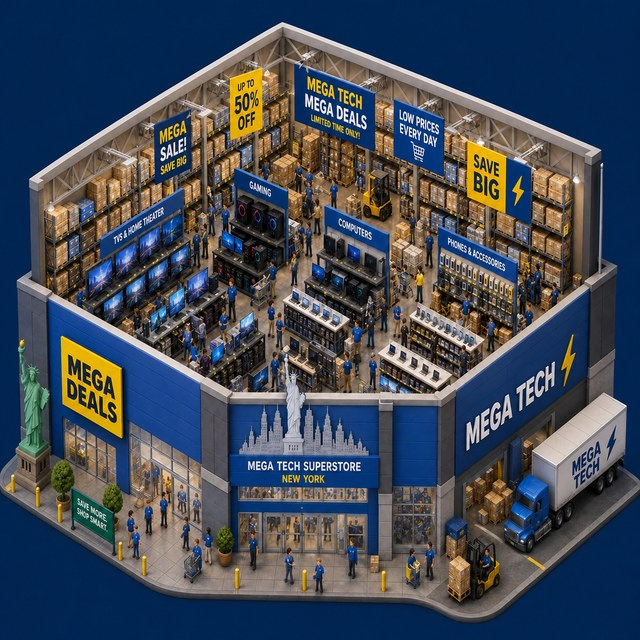
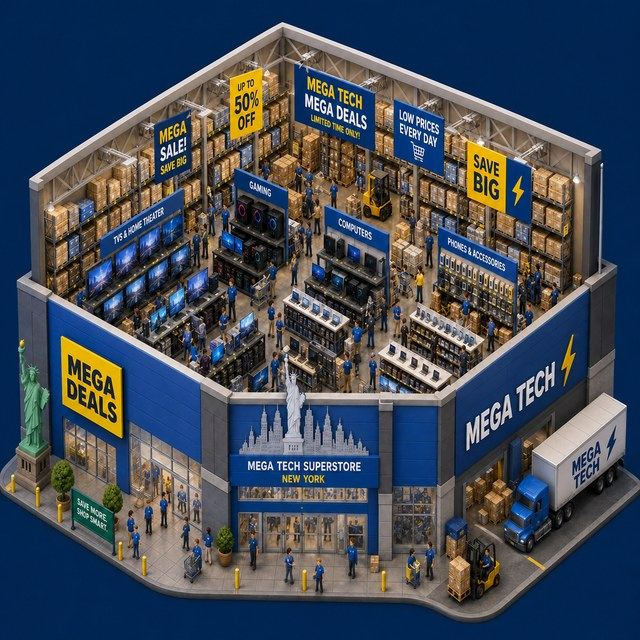
v2.49: 이미지 용량 줄이기(키아트·로드맵 썸네일·상점·직원 얼굴) — 1.17MB→0.94MB, 스프라이트 좌표는 크기 유지

diff --git a/index.html b/index.html
@@ -1,7 +1,7 @@
 <!DOCTYPE html>
 <html lang="ko">
 <head>
-<meta http-equiv="Cache-Control" content="no-cache, no-store, must-revalidate"><meta http-equiv="Pragma" content="no-cache"><meta http-equiv="Expires" content="0"><script>try{(function(){var V='1795170000';
+<meta http-equiv="Cache-Control" content="no-cache, no-store, must-revalidate"><meta http-equiv="Pragma" content="no-cache"><meta http-equiv="Expires" content="0"><script>try{(function(){var V='1795180000';
 function showUpd(t){try{ if(!document.body){ setTimeout(function(){showUpd(t);},250); return; }
 if(document.getElementById('__updBar')) return;
 var el=document.createElement('div'); el.id='__updBar'; el.setAttribute('role','button');
@@ -342,7 +342,7 @@ body.title #camctl,body.title #intp{opacity:0!important;pointer-events:none!impo
 <div id="camctl"><button id="camFull" title="전체 보기"><span>🔍</span><b>전체</b></button><button id="camBase" class="on" title="기본 시점"><span>🎯</span><b>기본</b></button><button id="intBtn" title="인테리어 꾸미기"><span>🛋</span><b>꾸미기</b></button></div>
 <div id="intp"><div class="ihd"><b>🛋 인테리어 상점</b><span id="intB"></span><button id="intX">✕</button></div><div class="itb" id="intTabs"></div><div class="il" id="intList"></div><div class="if" id="intFoot"></div></div>
 <div id="modal"><div class="box" id="mbox"></div><button id="mX">✕</button></div>
-<div id="title" style="display:none"><div class="tl"><span class="tb">MEGA TECH</span><h1>슈퍼스토어</h1><div class="ty">TYCOON</div></div><div class="sp"></div><div id="tProg"></div><button id="tStart"><i></i>영업 시작</button><button id="tLoad">📂 불러오기 <small style="font-weight:700;opacity:.8">· 저장 코드·링크</small></button><div class="tsh"><button id="tInst">📲 홈 화면에 추가</button><button id="tShare">🔗 친구에게 공유</button></div><div id="tSheet"></div><div class="tsv" id="tSave"></div><div class="tv">v2.48</div></div><div id="load"><div class="t">메가 테크 슈퍼스토어</div><div class="s" id="lds">매장 문 여는 중…</div></div>
+<div id="title" style="display:none"><div class="tl"><span class="tb">MEGA TECH</span><h1>슈퍼스토어</h1><div class="ty">TYCOON</div></div><div class="sp"></div><div id="tProg"></div><button id="tStart"><i></i>영업 시작</button><button id="tLoad">📂 불러오기 <small style="font-weight:700;opacity:.8">· 저장 코드·링크</small></button><div class="tsh"><button id="tInst">📲 홈 화면에 추가</button><button id="tShare">🔗 친구에게 공유</button></div><div id="tSheet"></div><div class="tsv" id="tSave"></div><div class="tv">v2.49</div></div><div id="load"><div class="t">메가 테크 슈퍼스토어</div><div class="s" id="lds">매장 문 여는 중…</div></div>
 <script>
 /* boot guard: shows a clear error + retry instead of an endless loading screen */
 (function(){ var done=false, failed=false;

diff --git a/tech.html b/tech.html
@@ -1,7 +1,7 @@
 <!DOCTYPE html>
 <html lang="ko">
 <head>
-<meta http-equiv="Cache-Control" content="no-cache, no-store, must-revalidate"><meta http-equiv="Pragma" content="no-cache"><meta http-equiv="Expires" content="0"><script>try{(function(){var V='1795170000';
+<meta http-equiv="Cache-Control" content="no-cache, no-store, must-revalidate"><meta http-equiv="Pragma" content="no-cache"><meta http-equiv="Expires" content="0"><script>try{(function(){var V='1795180000';
 function showUpd(t){try{ if(!document.body){ setTimeout(function(){showUpd(t);},250); return; }
 if(document.getElementById('__updBar')) return;
 var el=document.createElement('div'); el.id='__updBar'; el.setAttribute('role','button');
@@ -342,7 +342,7 @@ body.title #camctl,body.title #intp{opacity:0!important;pointer-events:none!impo
 <div id="camctl"><button id="camFull" title="전체 보기"><span>🔍</span><b>전체</b></button><button id="camBase" class="on" title="기본 시점"><span>🎯</span><b>기본</b></button><button id="intBtn" title="인테리어 꾸미기"><span>🛋</span><b>꾸미기</b></button></div>
 <div id="intp"><div class="ihd"><b>🛋 인테리어 상점</b><span id="intB"></span><button id="intX">✕</button></div><div class="itb" id="intTabs"></div><div class="il" id="intList"></div><div class="if" id="intFoot"></div></div>
 <div id="modal"><div class="box" id="mbox"></div><button id="mX">✕</button></div>
-<div id="title" style="display:none"><div class="tl"><span class="tb">MEGA TECH</span><h1>슈퍼스토어</h1><div class="ty">TYCOON</div></div><div class="sp"></div><div id="tProg"></div><button id="tStart"><i></i>영업 시작</button><button id="tLoad">📂 불러오기 <small style="font-weight:700;opacity:.8">· 저장 코드·링크</small></button><div class="tsh"><button id="tInst">📲 홈 화면에 추가</button><button id="tShare">🔗 친구에게 공유</button></div><div id="tSheet"></div><div class="tsv" id="tSave"></div><div class="tv">v2.48</div></div><div id="load"><div class="t">메가 테크 슈퍼스토어</div><div class="s" id="lds">매장 문 여는 중…</div></div>
+<div id="title" style="display:none"><div class="tl"><span class="tb">MEGA TECH</span><h1>슈퍼스토어</h1><div class="ty">TYCOON</div></div><div class="sp"></div><div id="tProg"></div><button id="tStart"><i></i>영업 시작</button><button id="tLoad">📂 불러오기 <small style="font-weight:700;opacity:.8">· 저장 코드·링크</small></button><div class="tsh"><button id="tInst">📲 홈 화면에 추가</button><button id="tShare">🔗 친구에게 공유</button></div><div id="tSheet"></div><div class="tsv" id="tSave"></div><div class="tv">v2.49</div></div><div id="load"><div class="t">메가 테크 슈퍼스토어</div><div class="s" id="lds">매장 문 여는 중…</div></div>
 <script>
 /* boot guard: shows a clear error + retry instead of an endless loading screen */
 (function(){ var done=false, failed=false;

diff --git a/tech-test.html b/tech-test.html
@@ -2,7 +2,7 @@
 <html lang="ko">
 <head>
 <meta http-equiv="Cache-Control" content="no-cache, no-store, must-revalidate"><meta http-equiv="Pragma" content="no-cache"><meta http-equiv="Expires" content="0">
-<script>try{(function(){var V='1795170000';
+<script>try{(function(){var V='1795180000';
 function showUpd(t){try{ if(!document.body){ setTimeout(function(){showUpd(t);},250); return; }
 if(document.getElementById('__updBar')) return;
 var el=document.createElement('div'); el.id='__updBar'; el.setAttribute('role','button');
@@ -373,7 +373,7 @@ body.title #camctl,body.title #intp{opacity:0!important;pointer-events:none!impo
 <div id="camctl"><button id="camFull" title="전체 보기"><span>🔍</span><b>전체</b></button><button id="camBase" class="on" title="기본 시점"><span>🎯</span><b>기본</b></button><button id="intBtn" title="인테리어 꾸미기"><span>🛋</span><b>꾸미기</b></button></div>
 <div id="intp"><div class="ihd"><b>🛋 인테리어 상점</b><span id="intB"></span><button id="intX">✕</button></div><div class="itb" id="intTabs"></div><div class="il" id="intList"></div><div class="if" id="intFoot"></div></div>
 <div id="modal"><div class="box" id="mbox"></div><button id="mX">✕</button></div>
-<div id="title" style="display:none"><div class="tl"><span class="tb">MEGA TECH</span><h1>슈퍼스토어</h1><div class="ty">TYCOON</div></div><div class="sp"></div><div id="tProg"></div><button id="tStart"><i></i>영업 시작</button><button id="tLoad">📂 불러오기 <small style="font-weight:700;opacity:.8">· 저장 코드·링크</small></button><div class="tsh"><button id="tInst">📲 홈 화면에 추가</button><button id="tShare">🔗 친구에게 공유</button></div><div id="tSheet"></div><div class="tsv" id="tSave"></div><div class="tv">v2.48</div></div><div id="load"><div class="t">메가 테크 슈퍼스토어</div><div class="s" id="lds">매장 문 여는 중…</div></div>
+<div id="title" style="display:none"><div class="tl"><span class="tb">MEGA TECH</span><h1>슈퍼스토어</h1><div class="ty">TYCOON</div></div><div class="sp"></div><div id="tProg"></div><button id="tStart"><i></i>영업 시작</button><button id="tLoad">📂 불러오기 <small style="font-weight:700;opacity:.8">· 저장 코드·링크</small></button><div class="tsh"><button id="tInst">📲 홈 화면에 추가</button><button id="tShare">🔗 친구에게 공유</button></div><div id="tSheet"></div><div class="tsv" id="tSave"></div><div class="tv">v2.49</div></div><div id="load"><div class="t">메가 테크 슈퍼스토어</div><div class="s" id="lds">매장 문 여는 중…</div></div>
 
 <div id="aip"><div id="aih"><b>🤖 AI 조작</b><span id="aistat">2D</span><button id="aitog" title="접기/펼치기">–</button></div>
 <div id="aib">

diff --git a/_t2d/part_head.html b/_t2d/part_head.html
@@ -2,7 +2,7 @@
 <html lang="ko">
 <head>
 <meta http-equiv="Cache-Control" content="no-cache, no-store, must-revalidate"><meta http-equiv="Pragma" content="no-cache"><meta http-equiv="Expires" content="0">
-<script>try{(function(){var V='1795170000';
+<script>try{(function(){var V='1795180000';
 function showUpd(t){try{ if(!document.body){ setTimeout(function(){showUpd(t);},250); return; }
 if(document.getElementById('__updBar')) return;
 var el=document.createElement('div'); el.id='__updBar'; el.setAttribute('role','button');
